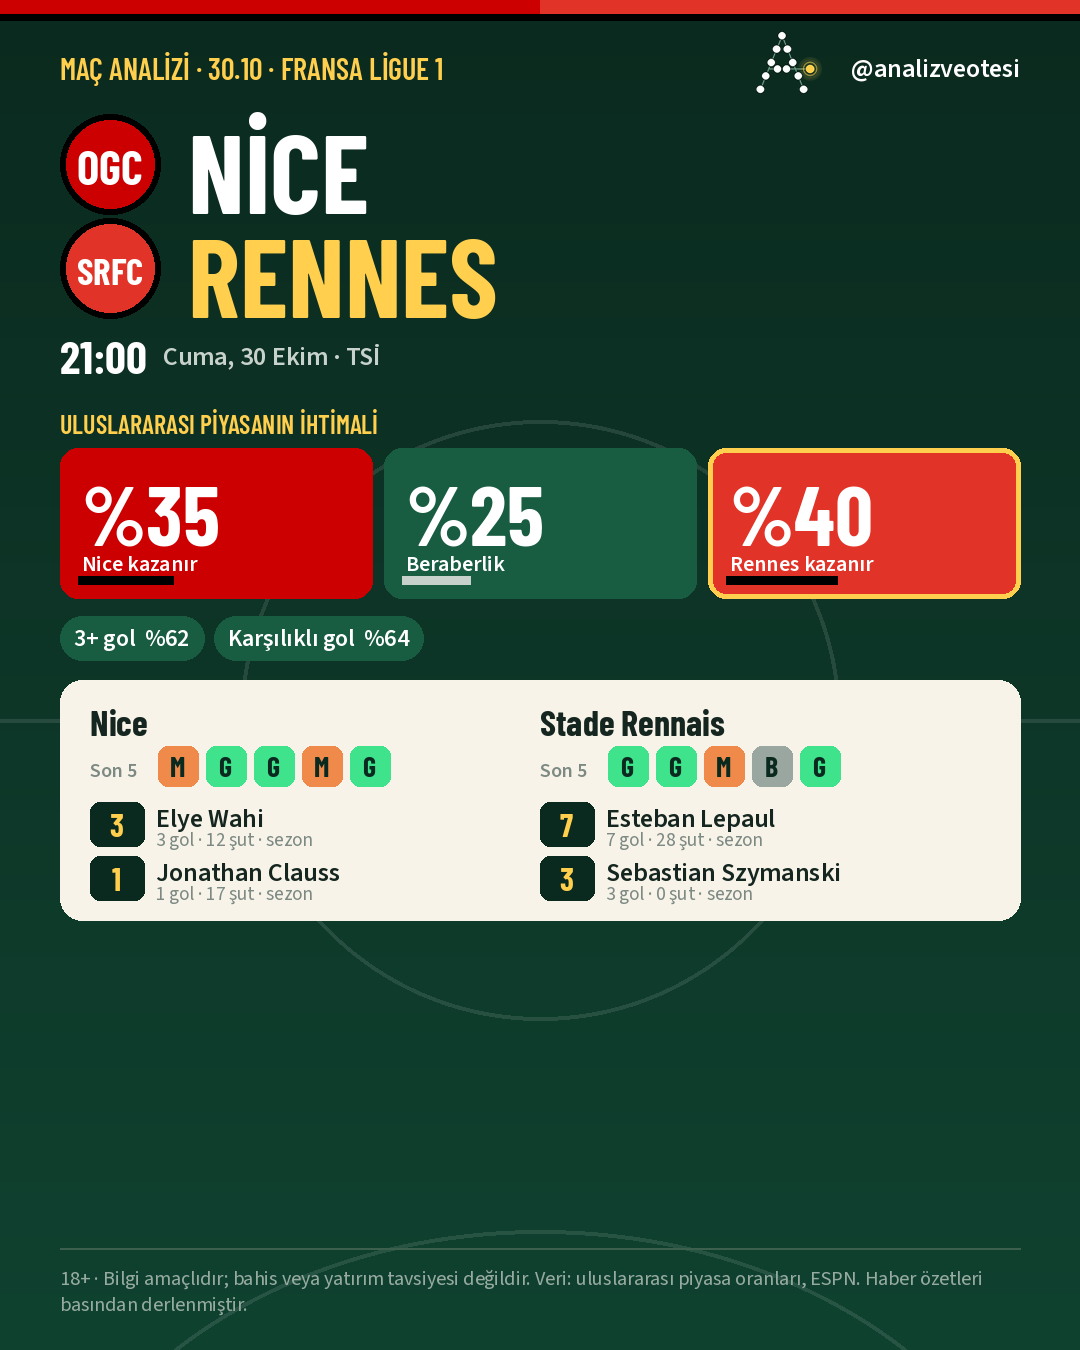
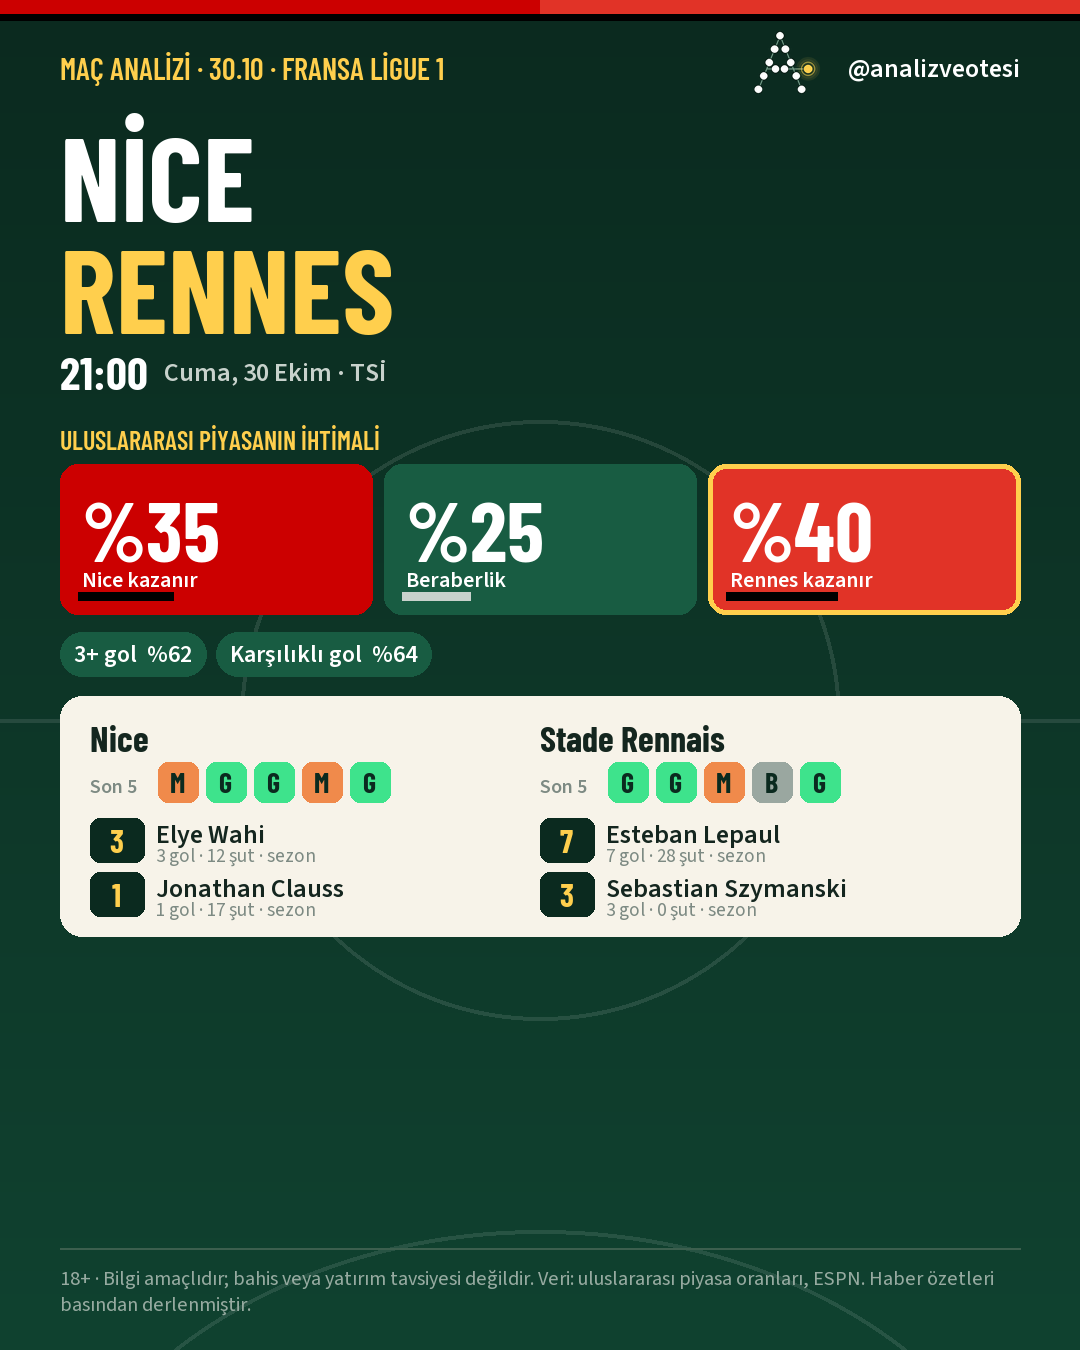
Kartlarda takım rozetleri kaldırıldı (renkler kutularda ve şeritte kalır)

diff --git a/docs/index.html b/docs/index.html
@@ -215,11 +215,11 @@ footer{margin-top:56px;padding-top:18px;border-top:1px solid var(--line);color:v
 details.match summary{grid-template-columns:1fr auto}details.match summary time{grid-column:1/-1}.coupon{padding:16px 14px}.coupon .meta{text-align:left}.cl .probs{grid-template-columns:repeat(3,1fr)}}
 @media (prefers-reduced-motion:reduce){*{animation:none!important;transition:none!important}.verdict,.coupon,.cl .card{opacity:1;transform:none}.meter .bar{width:var(--w)}}
 </style></head><body><div class="wrap">
-<div class="topbar"><div class="brand">İddia Bot<small>Nesine oranı dünya piyasasından yüksek mi? · gölge test</small></div><div class="clock">30.10 02:05 TSİ</div></div>
+<div class="topbar"><div class="brand">İddia Bot<small>Nesine oranı dünya piyasasından yüksek mi? · gölge test</small></div><div class="clock">30.10 02:11 TSİ</div></div>
 
 <section class="board">
   <h1 class="verdict">Şu an oynanacak<br><em>fırsat yok.</em></h1>
-  <ul class="pills"><li><span class="pulse"></span>Nesine <b>0 dk önce</b> kontrol edildi</li><li>Dünya piyasası <b>3 saat önce</b> · gözcü açılınca tazelenir</li><li class="shadow">Gölge test · para oynanmıyor, her fırsat puanlanıyor</li></ul>
+  <ul class="pills"><li><span class="pulse"></span>Nesine <b>6 dk önce</b> kontrol edildi</li><li>Dünya piyasası <b>3 saat önce</b> · gözcü açılınca tazelenir</li><li class="shadow">Gölge test · para oynanmıyor, her fırsat puanlanıyor</li></ul>
   
 <ul class="facts">
   <li><div class="n">57</div><div class="l">yaklaşan maç takipte</div></li>
@@ -246,7 +246,7 @@ details.match summary{grid-template-columns:1fr auto}details.match summary time{
 <div class="empty"><b>Hiçbir maçta Nesine, dünya piyasasından yüksek oran vermiyor.</b> Bu normaldir; fırsat haber çıkıp dünya piyasası hareket ettiğinde, Nesine geç kaldığında doğar. En yakını <b>Barcelona – Alaves</b>, kg yok · en az bir takım gol atamaz: Nesine 1.70 veriyor, adil oran 1.76; yani hâlâ %3.2 geride.</div>
 <h3>Eşiğe en yakın bahisler</h3>
 <p class="lead">Çubuk ne kadar sağdaysa Nesine o kadar cömert; koyu çizgi +%3 eşiği. Çoğunun solda kalması Nesine'nin normal hâlidir.</p>
-<div class="card"><ul class="list"><li class="row "><div class="m"><div class="t">Barcelona – Alaves</div><div class="d">KG Yok · en az bir takım gol atamaz · Nesine <code>1.70</code> · adil <code>1.76</code></div></div><div class="meter near"><div class="bar" style="--w:65.9%"></div><div class="tick"></div></div><div class="v">-3.2%</div></li><li class="row "><div class="m"><div class="t">Bayern Münih – B. Dortmund</div><div class="d">MS X · beraberlik · Nesine <code>5.54</code> · adil <code>6.01</code></div></div><div class="meter "><div class="bar" style="--w:52.2%"></div><div class="tick"></div></div><div class="v">-7.8%</div></li><li class="row "><div class="m"><div class="t">Konyaspor – Galatasaray</div><div class="d">MS 1 · ev sahibi kazanır · Nesine <code>4.78</code> · adil <code>5.22</code></div></div><div class="meter "><div class="bar" style="--w:50.2%"></div><div class="tick"></div></div><div class="v">-8.4%</div></li><li class="row "><div class="m"><div class="t">Levante – Atl Madrid</div><div class="d">MS 1 · ev sahibi kazanır · Nesine <code>4.70</code> · adil <code>5.21</code></div></div><div class="meter "><div class="bar" style="--w:46.3%"></div><div class="tick"></div></div><div class="v">-9.7%</div></li><li class="row "><div class="m"><div class="t">Santander – Real Madrid</div><div class="d">KG Yok · en az bir takım gol atamaz · Nesine <code>2.19</code> · adil <code>2.43</code></div></div><div class="meter "><div class="bar" style="--w:46.3%"></div><div class="tick"></div></div><div class="v">-9.7%</div></li><li class="row "><div class="m"><div class="t">Lille – RC Lens</div><div class="d">2.5 Üst · 3 veya daha fazla gol · Nesine <code>1.59</code> · adil <code>1.77</code></div></div><div class="meter "><div class="bar" style="--w:45.7%"></div><div class="tick"></div></div><div class="v">-9.9%</div></li><li class="row "><div class="m"><div class="t">Schalke 04 – Leipzig</div><div class="d">MS X · beraberlik · Nesine <code>3.53</code> · adil <code>3.93</code></div></div><div class="meter "><div class="bar" style="--w:45.2%"></div><div class="tick"></div></div><div class="v">-10.1%</div></li><li class="row "><div class="m"><div class="t">Vallecano – Celta Vigo</div><div class="d">KG Yok · en az bir takım gol atamaz · Nesine <code>1.72</code> · adil <code>1.93</code></div></div><div class="meter "><div class="bar" style="--w:42.2%"></div><div class="tick"></div></div><div class="v">-11.1%</div></li><li class="row "><div class="m"><div class="t">Elche – Valencia</div><div class="d">KG Yok · en az bir takım gol atamaz · Nesine <code>1.85</code> · adil <code>2.09</code></div></div><div class="meter "><div class="bar" style="--w:41.6%"></div><div class="tick"></div></div><div class="v">-11.3%</div></li><li class="row "><div class="m"><div class="t">Juventus – Napoli</div><div class="d">KG Yok · en az bir takım gol atamaz · Nesine <code>1.84</code> · adil <code>2.07</code></div></div><div class="meter "><div class="bar" style="--w:41.5%"></div><div class="tick"></div></div><div class="v">-11.3%</div></li><li class="row "><div class="m"><div class="t">Trabzonspor – Gaziantep FK</div><div class="d">MS 1 · ev sahibi kazanır · Nesine <code>1.21</code> · adil <code>1.37</code></div></div><div class="meter "><div class="bar" style="--w:40.4%"></div><div class="tick"></div></div><div class="v">-11.7%</div></li><li class="row "><div class="m"><div class="t">Le Havre – PSG</div><div class="d">MS 2 · deplasman kazanır · Nesine <code>1.11</code> · adil <code>1.26</code></div></div><div class="meter "><div class="bar" style="--w:40.2%"></div><div class="tick"></div></div><div class="v">-11.8%</div></li></ul>
+<div class="card"><ul class="list"><li class="row "><div class="m"><div class="t">Barcelona – Alaves</div><div class="d">KG Yok · en az bir takım gol atamaz · Nesine <code>1.70</code> · adil <code>1.76</code></div></div><div class="meter near"><div class="bar" style="--w:65.9%"></div><div class="tick"></div></div><div class="v">-3.2%</div></li><li class="row "><div class="m"><div class="t">Bayern Münih – B. Dortmund</div><div class="d">MS X · beraberlik · Nesine <code>5.54</code> · adil <code>6.01</code></div></div><div class="meter "><div class="bar" style="--w:52.2%"></div><div class="tick"></div></div><div class="v">-7.8%</div></li><li class="row "><div class="m"><div class="t">Konyaspor – Galatasaray</div><div class="d">MS 1 · ev sahibi kazanır · Nesine <code>4.78</code> · adil <code>5.22</code></div></div><div class="meter "><div class="bar" style="--w:50.2%"></div><div class="tick"></div></div><div class="v">-8.4%</div></li><li class="row "><div class="m"><div class="t">Santander – Real Madrid</div><div class="d">KG Yok · en az bir takım gol atamaz · Nesine <code>2.21</code> · adil <code>2.43</code></div></div><div class="meter "><div class="bar" style="--w:48.8%"></div><div class="tick"></div></div><div class="v">-8.9%</div></li><li class="row "><div class="m"><div class="t">Levante – Atl Madrid</div><div class="d">MS 1 · ev sahibi kazanır · Nesine <code>4.70</code> · adil <code>5.21</code></div></div><div class="meter "><div class="bar" style="--w:46.3%"></div><div class="tick"></div></div><div class="v">-9.7%</div></li><li class="row "><div class="m"><div class="t">Lille – RC Lens</div><div class="d">2.5 Üst · 3 veya daha fazla gol · Nesine <code>1.59</code> · adil <code>1.77</code></div></div><div class="meter "><div class="bar" style="--w:45.7%"></div><div class="tick"></div></div><div class="v">-9.9%</div></li><li class="row "><div class="m"><div class="t">Schalke 04 – Leipzig</div><div class="d">MS X · beraberlik · Nesine <code>3.53</code> · adil <code>3.93</code></div></div><div class="meter "><div class="bar" style="--w:45.2%"></div><div class="tick"></div></div><div class="v">-10.1%</div></li><li class="row "><div class="m"><div class="t">Vallecano – Celta Vigo</div><div class="d">KG Yok · en az bir takım gol atamaz · Nesine <code>1.72</code> · adil <code>1.93</code></div></div><div class="meter "><div class="bar" style="--w:42.2%"></div><div class="tick"></div></div><div class="v">-11.1%</div></li><li class="row "><div class="m"><div class="t">Elche – Valencia</div><div class="d">KG Yok · en az bir takım gol atamaz · Nesine <code>1.85</code> · adil <code>2.09</code></div></div><div class="meter "><div class="bar" style="--w:41.6%"></div><div class="tick"></div></div><div class="v">-11.3%</div></li><li class="row "><div class="m"><div class="t">Juventus – Napoli</div><div class="d">KG Yok · en az bir takım gol atamaz · Nesine <code>1.84</code> · adil <code>2.07</code></div></div><div class="meter "><div class="bar" style="--w:41.5%"></div><div class="tick"></div></div><div class="v">-11.3%</div></li><li class="row "><div class="m"><div class="t">Trabzonspor – Gaziantep FK</div><div class="d">MS 1 · ev sahibi kazanır · Nesine <code>1.21</code> · adil <code>1.37</code></div></div><div class="meter "><div class="bar" style="--w:40.4%"></div><div class="tick"></div></div><div class="v">-11.7%</div></li><li class="row "><div class="m"><div class="t">Le Havre – PSG</div><div class="d">MS 2 · deplasman kazanır · Nesine <code>1.11</code> · adil <code>1.26</code></div></div><div class="meter "><div class="bar" style="--w:40.2%"></div><div class="tick"></div></div><div class="v">-11.8%</div></li></ul>
 <div class="legend"><span><i style="background:#A9B5AE"></i>geride</span><span><i style="background:var(--sodium)"></i>yaklaşıyor (−%5 içinde)</span><span><i style="background:var(--signal)"></i>eşiği geçti</span></div></div>
 </section>
 
@@ -485,7 +485,7 @@ details.match summary{grid-template-columns:1fr auto}details.match summary time{
 <p class="acc">İsabet geçmişi (5.200 maç): <b>piyasa</b> ±2 puan kalibre · <b>istatistik</b> piyasadan daha az isabetli, tek başına izlenirse geçmişte −12% · <b>Yapay zekâ</b> 1 maçta ölçüldü: isabet puanı 0.438, piyasa 0.266 (küçük iyi) — piyasa önde; 100 maçtan önce yorum yapmayın (✓ = piyasayla 5 puan içinde uyuşuyor).</p>
 </div></details>
 <details class="match"><summary><time>Cmt 31.10 20:30</time><div><div class="tm">Bayern Münih – B. Dortmund</div><div class="lg">Almanya Bundesliga</div></div><span class="tag">en iyisi -7.8%</span></summary>
-<div class="views"><table><tr><th>Bahis</th><th>Nesine</th><th>Piyasa</th><th>İstatistik</th><th>Yapay zekâ</th><th>Değer</th></tr><tr><td>MS 1 · ev sahibi kazanır</td><td>1.17</td><td>%72</td><td>%65</td><td class="dim">—</td><td class="">-15.9%</td></tr><tr><td>MS X · beraberlik</td><td>5.54</td><td>%17</td><td>%18</td><td class="dim">—</td><td class="">-7.8%</td></tr><tr><td>MS 2 · deplasman kazanır</td><td>6.52</td><td>%12</td><td>%17</td><td class="dim">—</td><td class="">-25.0%</td></tr><tr><td>2.5 Alt · 2 veya daha az gol</td><td>3.51</td><td>%23</td><td>%30</td><td class="dim">—</td><td class="">-18.9%</td></tr><tr><td>2.5 Üst · 3 veya daha fazla gol</td><td>1.11</td><td>%77</td><td>%70</td><td class="dim">—</td><td class="">-14.6%</td></tr><tr><td>KG Var · iki takım da gol atar</td><td>1.31</td><td>%65</td><td>%64</td><td class="dim">—</td><td class="">-14.7%</td></tr><tr><td>KG Yok · en az bir takım gol atamaz</td><td>2.37</td><td>%35</td><td>%36</td><td class="dim">—</td><td class="">-17.4%</td></tr></table>
+<div class="views"><table><tr><th>Bahis</th><th>Nesine</th><th>Piyasa</th><th>İstatistik</th><th>Yapay zekâ</th><th>Değer</th></tr><tr><td>MS 1 · ev sahibi kazanır</td><td>1.17</td><td>%72</td><td>%65</td><td class="dim">—</td><td class="">-15.9%</td></tr><tr><td>MS X · beraberlik</td><td>5.54</td><td>%17</td><td>%18</td><td class="dim">—</td><td class="">-7.8%</td></tr><tr><td>MS 2 · deplasman kazanır</td><td>6.46</td><td>%12</td><td>%17</td><td class="dim">—</td><td class="">-25.6%</td></tr><tr><td>2.5 Alt · 2 veya daha az gol</td><td>3.51</td><td>%23</td><td>%30</td><td class="dim">—</td><td class="">-18.9%</td></tr><tr><td>2.5 Üst · 3 veya daha fazla gol</td><td>1.11</td><td>%77</td><td>%70</td><td class="dim">—</td><td class="">-14.6%</td></tr><tr><td>KG Var · iki takım da gol atar</td><td>1.30</td><td>%65</td><td>%64</td><td class="dim">—</td><td class="">-15.3%</td></tr><tr><td>KG Yok · en az bir takım gol atamaz</td><td>2.38</td><td>%35</td><td>%36</td><td class="dim">—</td><td class="">-17.0%</td></tr></table>
 <p class="why"><b>Bayern Münih</b> son 10 maçta: 7 galibiyet, maç başı 3.4 gol attı / 1.0 yedi, KG %70, 3+ gol %80. <b>B. Dortmund</b> son 10 maçta: 7 galibiyet, maç başı 1.7 gol attı / 0.7 yedi, KG %30, 3+ gol %40.</p>
 <div class="abs espn"><div class="plabel"><b>Gol atması en olası</b> · sezon verisi (ESPN)</div><div class="chips"><details class="chip goal"><summary>⚽ Michael Olise <small>Bayern Munich · 6 gol</small></summary><div class="pop"><div><b>Sezon:</b> 7 maç, 6 gol, 3 asist</div><div><b>Maç başı gol:</b> 0.86</div><div><b>Toplam şut:</b> 30</div></div></details><details class="chip goal"><summary>⚽ Harry Kane <small>Bayern Munich · 4 gol</small></summary><div class="pop"><div><b>Sezon:</b> 7 maç, 4 gol, 5 asist</div><div><b>Maç başı gol:</b> 0.57</div><div><b>Toplam şut:</b> 31</div></div></details><details class="chip goal"><summary>⚽ Serhou Guirassy <small>Borussia Dortmund · 2 gol</small></summary><div class="pop"><div><b>Sezon:</b> 7 maç, 2 gol, 2 asist</div><div><b>Maç başı gol:</b> 0.29</div><div><b>Toplam şut:</b> 24</div></div></details><details class="chip goal"><summary>⚽ Maximilian Beier <small>Borussia Dortmund · 2 gol</small></summary><div class="pop"><div><b>Sezon:</b> 7 maç, 2 gol, 0 asist</div><div><b>Maç başı gol:</b> 0.29</div><div><b>Toplam şut:</b> 17</div></div></details></div><div class="plabel" style="margin-top:10px"><b>Son 5 maç</b> (G galibiyet · B beraberlik · M mağlubiyet, en eski → en yeni)</div><div class="l5"><b>Bayern Munich</b> <span class="r5 D">B</span> <span class="r5 W">G</span> <span class="r5 D">B</span> <span class="r5 W">G</span> <span class="r5 W">G</span> · <b>Borussia Dortmund</b> <span class="r5 L">M</span> <span class="r5 D">B</span> <span class="r5 W">G</span> <span class="r5 W">G</span> <span class="r5 W">G</span></div></div>
 <p class="acc">İsabet geçmişi (5.200 maç): <b>piyasa</b> ±2 puan kalibre · <b>istatistik</b> piyasadan daha az isabetli, tek başına izlenirse geçmişte −12% · <b>Yapay zekâ</b> 1 maçta ölçüldü: isabet puanı 0.438, piyasa 0.266 (küçük iyi) — piyasa önde; 100 maçtan önce yorum yapmayın (✓ = piyasayla 5 puan içinde uyuşuyor).</p>
@@ -554,8 +554,8 @@ details.match summary{grid-template-columns:1fr auto}details.match summary time{
 
 <section class="panel" id="p-hareket">
 <h2>İddaa oranları hareket ediyor mu?</h2>
-<p class="lead"><b>96 kontrolde 1420 oran değişimi</b> gördük (739 yükseliş, 681 düşüş). Oranlar hareket ediyor; sorumuz, dünya piyasasından ne kadar <b>geç</b> hareket ettiği. Yeşil ▲ oran yükseldi, turuncu ▼ düştü; "maça kalan" değişimin maçtan ne kadar önce olduğunu gösterir.</p>
-<div class="card"><ul class="changes"><li><time>30.10 02:05</time><div>Bayern Münih – B. Dortmund <small>· ms 2 · deplasman kazanır · maça 42 sa 24 dk kala</small></div><div class="o up">6.46 ▲ 6.52</div></li><li><time>30.10 02:05</time><div>Bayern Münih – B. Dortmund <small>· kg var · iki takım da gol atar · maça 42 sa 24 dk kala</small></div><div class="o up">1.30 ▲ 1.31</div></li><li><time>30.10 02:05</time><div>Bayern Münih – B. Dortmund <small>· kg yok · en az bir takım gol atamaz · maça 42 sa 24 dk kala</small></div><div class="o down">2.38 ▼ 2.37</div></li><li><time>30.10 02:05</time><div>Santander – Real Madrid <small>· ms 1 · ev sahibi kazanır · maça 64 sa 9 dk kala</small></div><div class="o up">9.28 ▲ 9.54</div></li><li><time>30.10 02:05</time><div>Santander – Real Madrid <small>· ms x · beraberlik · maça 64 sa 9 dk kala</small></div><div class="o up">6.89 ▲ 6.97</div></li><li><time>30.10 02:05</time><div>Santander – Real Madrid <small>· kg var · iki takım da gol atar · maça 64 sa 9 dk kala</small></div><div class="o up">1.36 ▲ 1.37</div></li><li><time>30.10 02:05</time><div>Santander – Real Madrid <small>· kg yok · en az bir takım gol atamaz · maça 64 sa 9 dk kala</small></div><div class="o down">2.21 ▼ 2.19</div></li><li><time>30.10 02:04</time><div>Le Havre – PSG <small>· ms 1 · ev sahibi kazanır · maça 18 sa 55 dk kala</small></div><div class="o up">8.25 ▲ 8.65</div></li><li><time>30.10 02:04</time><div>Le Havre – PSG <small>· ms x · beraberlik · maça 18 sa 55 dk kala</small></div><div class="o up">5.82 ▲ 5.95</div></li><li><time>30.10 02:04</time><div>Le Havre – PSG <small>· ms 2 · deplasman kazanır · maça 18 sa 55 dk kala</small></div><div class="o down">1.12 ▼ 1.11</div></li><li><time>30.10 02:04</time><div>Le Havre – PSG <small>· kg var · iki takım da gol atar · maça 18 sa 55 dk kala</small></div><div class="o up">1.51 ▲ 1.54</div></li><li><time>30.10 02:04</time><div>Le Havre – PSG <small>· kg yok · en az bir takım gol atamaz · maça 18 sa 55 dk kala</small></div><div class="o down">1.90 ▼ 1.87</div></li><li><time>30.10 02:04</time><div>Lille – RC Lens <small>· kg var · iki takım da gol atar · maça 21 sa 0 dk kala</small></div><div class="o up">1.46 ▲ 1.47</div></li><li><time>30.10 02:04</time><div>Lille – RC Lens <small>· kg yok · en az bir takım gol atamaz · maça 21 sa 0 dk kala</small></div><div class="o down">2.00 ▼ 1.99</div></li><li><time>30.10 02:04</time><div>Lille – RC Lens <small>· 2.5 üst · 3 veya daha fazla gol · maça 21 sa 0 dk kala</small></div><div class="o up">1.58 ▲ 1.59</div></li><li><time>30.10 01:44</time><div>Le Havre – PSG <small>· ms 1 · ev sahibi kazanır · maça 19 sa 15 dk kala</small></div><div class="o down">8.49 ▼ 8.25</div></li><li><time>30.10 01:44</time><div>Le Havre – PSG <small>· ms x · beraberlik · maça 19 sa 15 dk kala</small></div><div class="o down">5.92 ▼ 5.82</div></li><li><time>30.10 01:44</time><div>Le Havre – PSG <small>· ms 2 · deplasman kazanır · maça 19 sa 15 dk kala</small></div><div class="o up">1.11 ▲ 1.12</div></li><li><time>30.10 01:44</time><div>Le Havre – PSG <small>· kg var · iki takım da gol atar · maça 19 sa 15 dk kala</small></div><div class="o down">1.53 ▼ 1.51</div></li><li><time>30.10 01:44</time><div>Le Havre – PSG <small>· kg yok · en az bir takım gol atamaz · maça 19 sa 15 dk kala</small></div><div class="o up">1.88 ▲ 1.90</div></li></ul></div>
+<p class="lead"><b>94 kontrolde 1413 oran değişimi</b> gördük (734 yükseliş, 679 düşüş). Oranlar hareket ediyor; sorumuz, dünya piyasasından ne kadar <b>geç</b> hareket ettiği. Yeşil ▲ oran yükseldi, turuncu ▼ düştü; "maça kalan" değişimin maçtan ne kadar önce olduğunu gösterir.</p>
+<div class="card"><ul class="changes"><li><time>30.10 02:04</time><div>Le Havre – PSG <small>· ms 1 · ev sahibi kazanır · maça 18 sa 55 dk kala</small></div><div class="o up">8.25 ▲ 8.65</div></li><li><time>30.10 02:04</time><div>Le Havre – PSG <small>· ms x · beraberlik · maça 18 sa 55 dk kala</small></div><div class="o up">5.82 ▲ 5.95</div></li><li><time>30.10 02:04</time><div>Le Havre – PSG <small>· ms 2 · deplasman kazanır · maça 18 sa 55 dk kala</small></div><div class="o down">1.12 ▼ 1.11</div></li><li><time>30.10 02:04</time><div>Le Havre – PSG <small>· kg var · iki takım da gol atar · maça 18 sa 55 dk kala</small></div><div class="o up">1.51 ▲ 1.54</div></li><li><time>30.10 02:04</time><div>Le Havre – PSG <small>· kg yok · en az bir takım gol atamaz · maça 18 sa 55 dk kala</small></div><div class="o down">1.90 ▼ 1.87</div></li><li><time>30.10 02:04</time><div>Lille – RC Lens <small>· kg var · iki takım da gol atar · maça 21 sa 0 dk kala</small></div><div class="o up">1.46 ▲ 1.47</div></li><li><time>30.10 02:04</time><div>Lille – RC Lens <small>· kg yok · en az bir takım gol atamaz · maça 21 sa 0 dk kala</small></div><div class="o down">2.00 ▼ 1.99</div></li><li><time>30.10 02:04</time><div>Lille – RC Lens <small>· 2.5 üst · 3 veya daha fazla gol · maça 21 sa 0 dk kala</small></div><div class="o up">1.58 ▲ 1.59</div></li><li><time>30.10 01:44</time><div>Le Havre – PSG <small>· ms 1 · ev sahibi kazanır · maça 19 sa 15 dk kala</small></div><div class="o down">8.49 ▼ 8.25</div></li><li><time>30.10 01:44</time><div>Le Havre – PSG <small>· ms x · beraberlik · maça 19 sa 15 dk kala</small></div><div class="o down">5.92 ▼ 5.82</div></li><li><time>30.10 01:44</time><div>Le Havre – PSG <small>· ms 2 · deplasman kazanır · maça 19 sa 15 dk kala</small></div><div class="o up">1.11 ▲ 1.12</div></li><li><time>30.10 01:44</time><div>Le Havre – PSG <small>· kg var · iki takım da gol atar · maça 19 sa 15 dk kala</small></div><div class="o down">1.53 ▼ 1.51</div></li><li><time>30.10 01:44</time><div>Le Havre – PSG <small>· kg yok · en az bir takım gol atamaz · maça 19 sa 15 dk kala</small></div><div class="o up">1.88 ▲ 1.90</div></li><li><time>30.10 01:23</time><div>Werder Bremen – Hoffenheim <small>· ms 1 · ev sahibi kazanır · maça 40 sa 6 dk kala</small></div><div class="o down">2.52 ▼ 2.47</div></li><li><time>30.10 01:23</time><div>Werder Bremen – Hoffenheim <small>· ms x · beraberlik · maça 40 sa 6 dk kala</small></div><div class="o up">3.44 ▲ 3.45</div></li><li><time>30.10 01:23</time><div>Werder Bremen – Hoffenheim <small>· ms 2 · deplasman kazanır · maça 40 sa 6 dk kala</small></div><div class="o up">2.00 ▲ 2.03</div></li><li><time>30.10 01:23</time><div>Lille – RC Lens <small>· ms 1 · ev sahibi kazanır · maça 21 sa 41 dk kala</small></div><div class="o up">2.23 ▲ 2.24</div></li><li><time>30.10 01:23</time><div>Lille – RC Lens <small>· ms x · beraberlik · maça 21 sa 41 dk kala</small></div><div class="o down">3.11 ▼ 3.08</div></li><li><time>30.10 01:23</time><div>Lille – RC Lens <small>· ms 2 · deplasman kazanır · maça 21 sa 41 dk kala</small></div><div class="o up">2.39 ▲ 2.40</div></li><li><time>30.10 01:23</time><div>Lille – RC Lens <small>· kg yok · en az bir takım gol atamaz · maça 21 sa 41 dk kala</small></div><div class="o up">1.99 ▲ 2.00</div></li></ul></div>
 </section>
 
 <section class="panel" id="p-paylasim">

diff --git a/social.py b/social.py
@@ -209,16 +209,13 @@ def match_card(m, pm, ai, er, out_path):
     d.rectangle((0, 0, W // 2, 14), fill=hc1); d.rectangle((W // 2, 0, W, 14), fill=ac1)
     d.rectangle((0, 14, W // 2, 20), fill=hc2); d.rectangle((W // 2, 14, W, 20), fill=ac2)
     topbar(d, f"Maç analizi · {start:%d.%m} · {m['league']}")
-    fh = font("display", 110)
+    fh = font("display", 118)
     home, away = tr_upper(m["home"]), tr_upper(m["away"])
-    bx = 60 + 58  # rozet yarıçapı 50 + boşluk
-    while fh.getlength(home) > W - bx - 60 - 70 or fh.getlength(away) > W - bx - 60 - 70:
+    while fh.getlength(home) > W - 120 or fh.getlength(away) > W - 120:
         fh = font("display", fh.size - 6)
     y1 = 104; y2 = 104 + fh.size - 6
-    badge(img, d, 60 + 50, y1 + fh.size * 0.55, 50, m["home"], er)
-    badge(img, d, 60 + 50, y2 + fh.size * 0.55, 50, m["away"], er)
-    text(d, (bx + 70, y1), home, fh, WHITE)
-    text(d, (bx + 70, y2), away, fh, YELLOW)
+    text(d, (60, y1), home, fh, WHITE)
+    text(d, (60, y2), away, fh, YELLOW)
     y = 104 + 2 * fh.size + 4
     ft = font("display", 46)
     text(d, (60, y), f"{start:%H:%M}", ft, WHITE)
